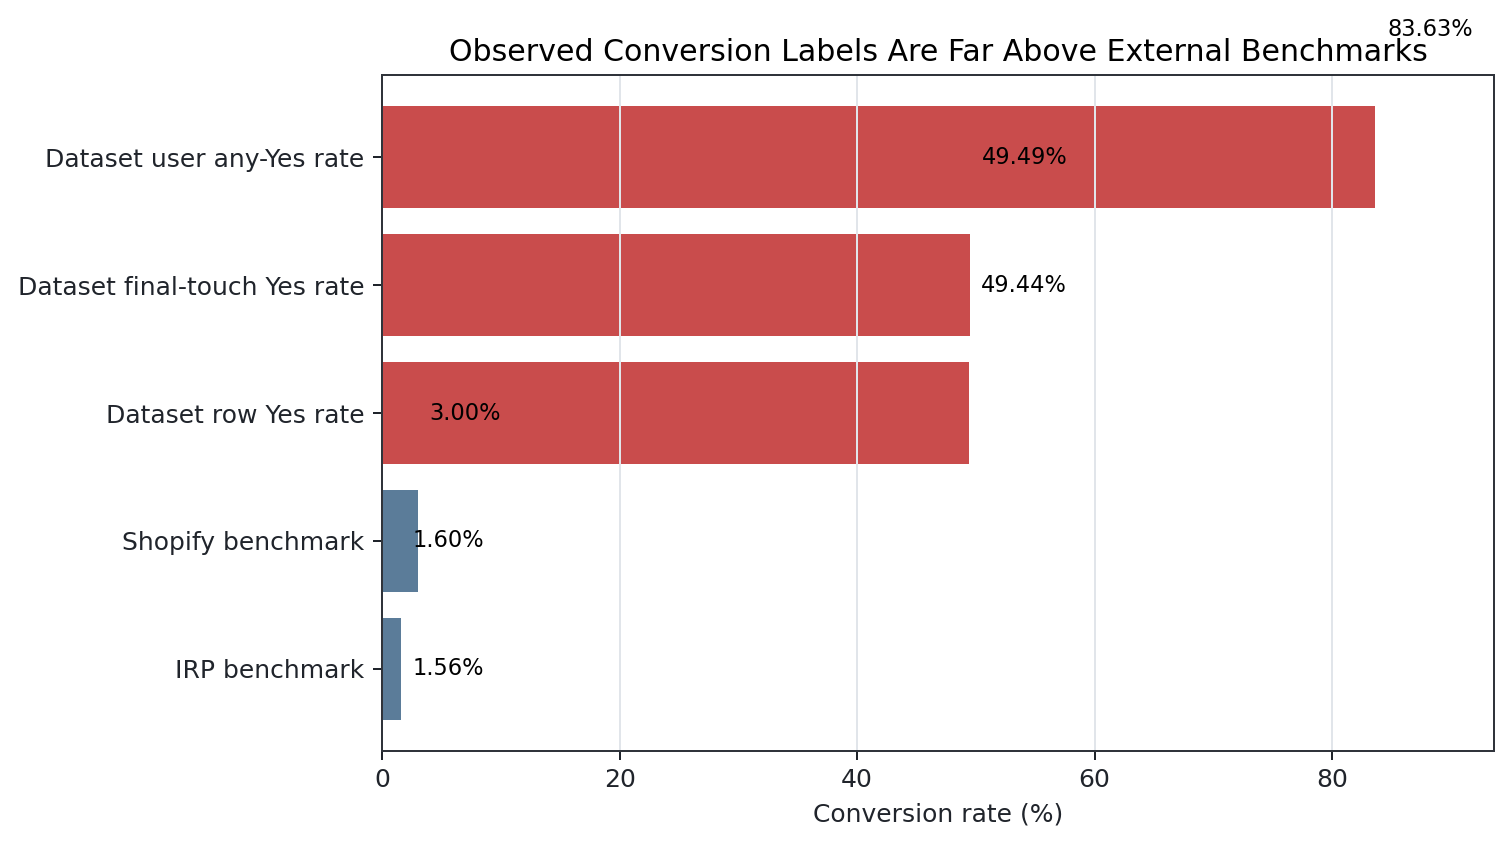
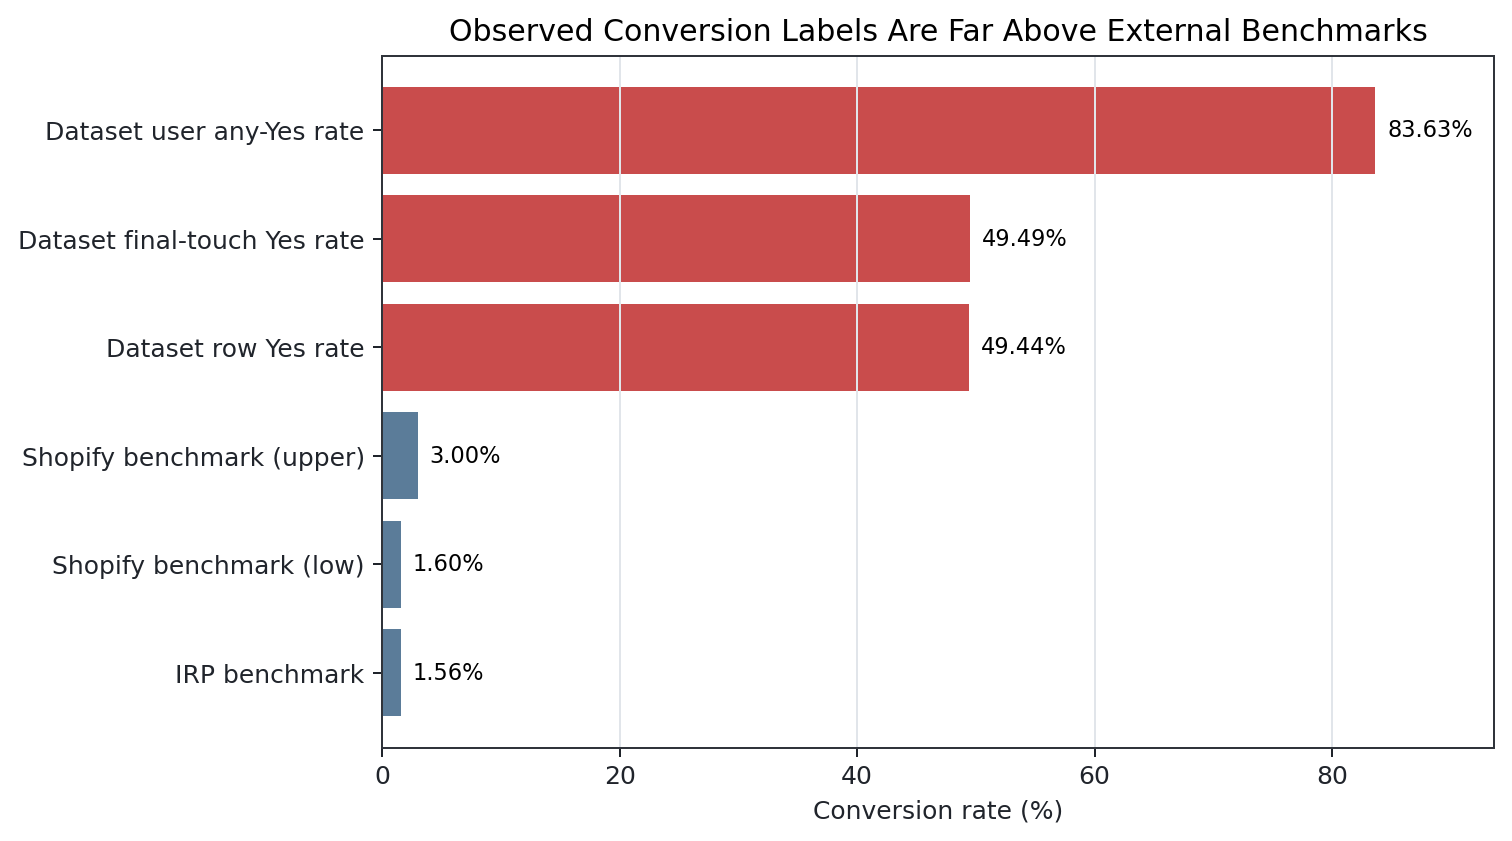
Fix conversion gap chart labels

diff --git a/analysis_python/common/visualization.py b/analysis_python/common/visualization.py
@@ -44,26 +44,33 @@ def _save(fig: plt.Figure, rq: str, filename: str) -> None:
 def plot_conversion_gap() -> None:
     rows = _read("RQ1/outputs", "rq1_benchmark_conversion_rates.csv")
     rows = rows[rows["source"].str.contains("Case-study|IRP|Shopify", case=False, regex=True)].copy()
-    rows["label"] = rows["source"].replace(
-        {
-            "Case-study raw touchpoint data": "Dataset row Yes rate",
-            "Case-study reconstructed user journeys": "Dataset user any-Yes rate",
-            "Case-study stricter journey label": "Dataset final-touch Yes rate",
-            "IRP Commerce Market Data": "IRP benchmark",
-            "Shopify retail conversion benchmark summary": "Shopify benchmark",
-        }
-    )
-    rows = rows.sort_values("rate_pct")
+    def label_row(row: pd.Series) -> str:
+        if row["source"] == "Case-study raw touchpoint data":
+            return "Dataset row Yes rate"
+        if row["source"] == "Case-study reconstructed user journeys":
+            return "Dataset user any-Yes rate"
+        if row["source"] == "Case-study stricter journey label":
+            return "Dataset final-touch Yes rate"
+        if row["source"] == "IRP Commerce Market Data":
+            return "IRP benchmark"
+        if row["source"] == "Shopify retail conversion benchmark summary":
+            return "Shopify benchmark (low)" if row["rate_pct"] < 2 else "Shopify benchmark (upper)"
+        return str(row["source"])
+
+    rows["label"] = rows.apply(label_row, axis=1)
+    rows = rows.sort_values("rate_pct").reset_index(drop=True)
+    y_pos = range(len(rows))
     colors = ["#5B7C99" if value < 10 else "#C94C4C" for value in rows["rate_pct"]]
     with plt.rc_context(STYLE):
         fig, ax = plt.subplots(figsize=(8.5, 4.8))
-        ax.barh(rows["label"], rows["rate_pct"], color=colors)
+        ax.barh(y_pos, rows["rate_pct"], color=colors)
+        ax.set_yticks(list(y_pos), rows["label"])
         ax.set_xlabel("Conversion rate (%)")
         ax.set_title("Observed Conversion Labels Are Far Above External Benchmarks")
         ax.grid(axis="x", color="#E1E5EA", linewidth=0.8)
         ax.set_xlim(0, max(rows["rate_pct"].max() * 1.12, 5))
-        for i, value in enumerate(rows["rate_pct"]):
-            ax.text(value + 1.0, i, f"{value:.2f}%", va="center", fontsize=9)
+        for y, value in zip(y_pos, rows["rate_pct"]):
+            ax.text(value + 1.0, y, f"{value:.2f}%", va="center", fontsize=9)
     _save(fig, "RQ1/outputs", "conversion_rate_gap.png")
 
 